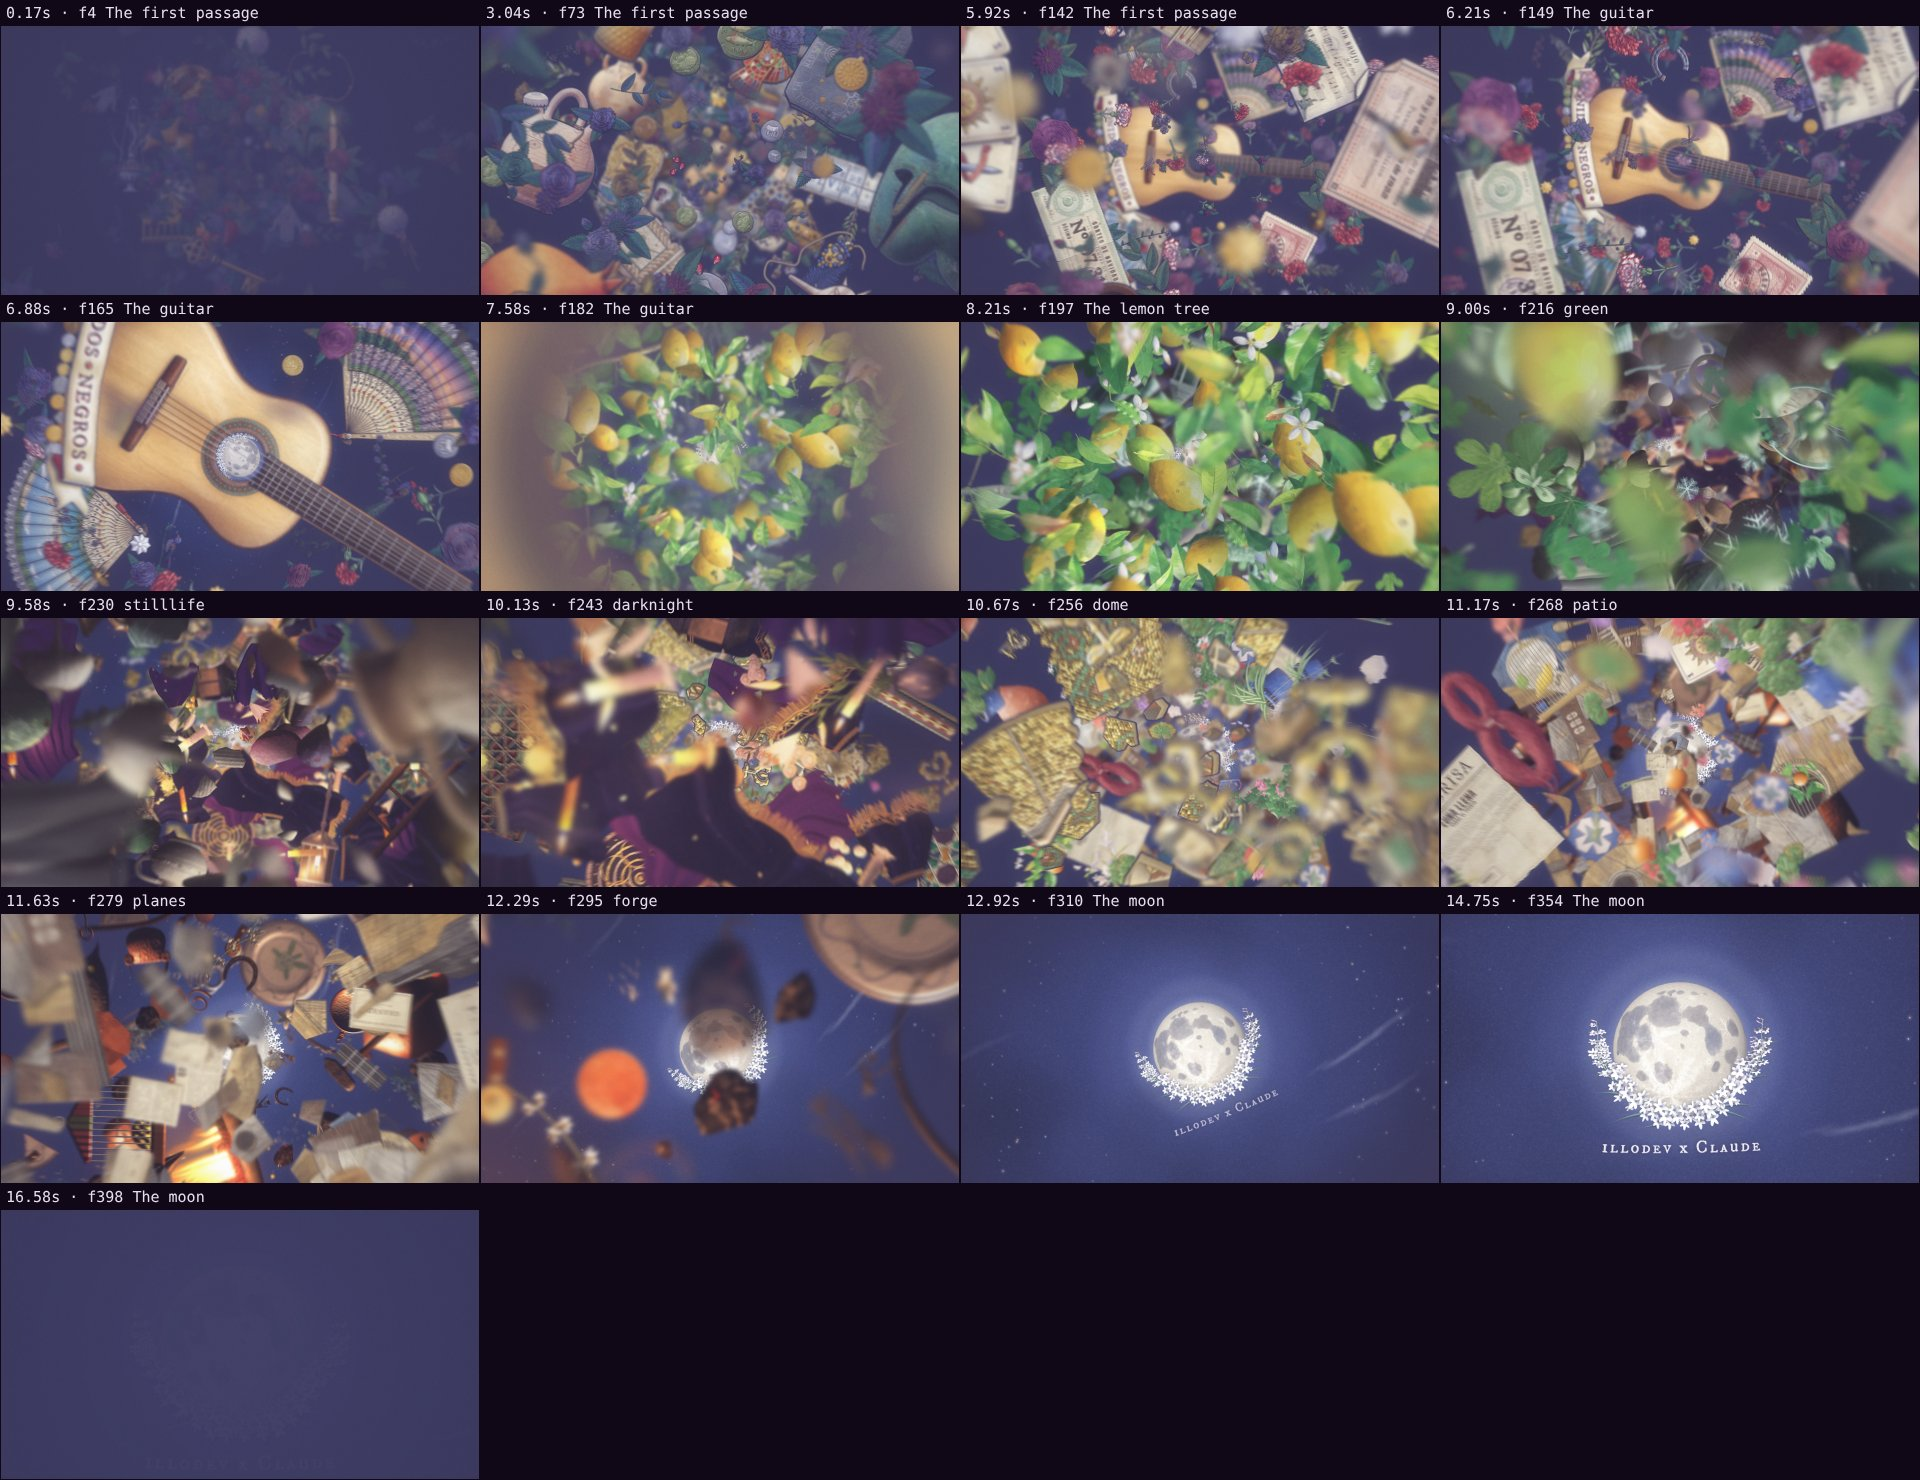
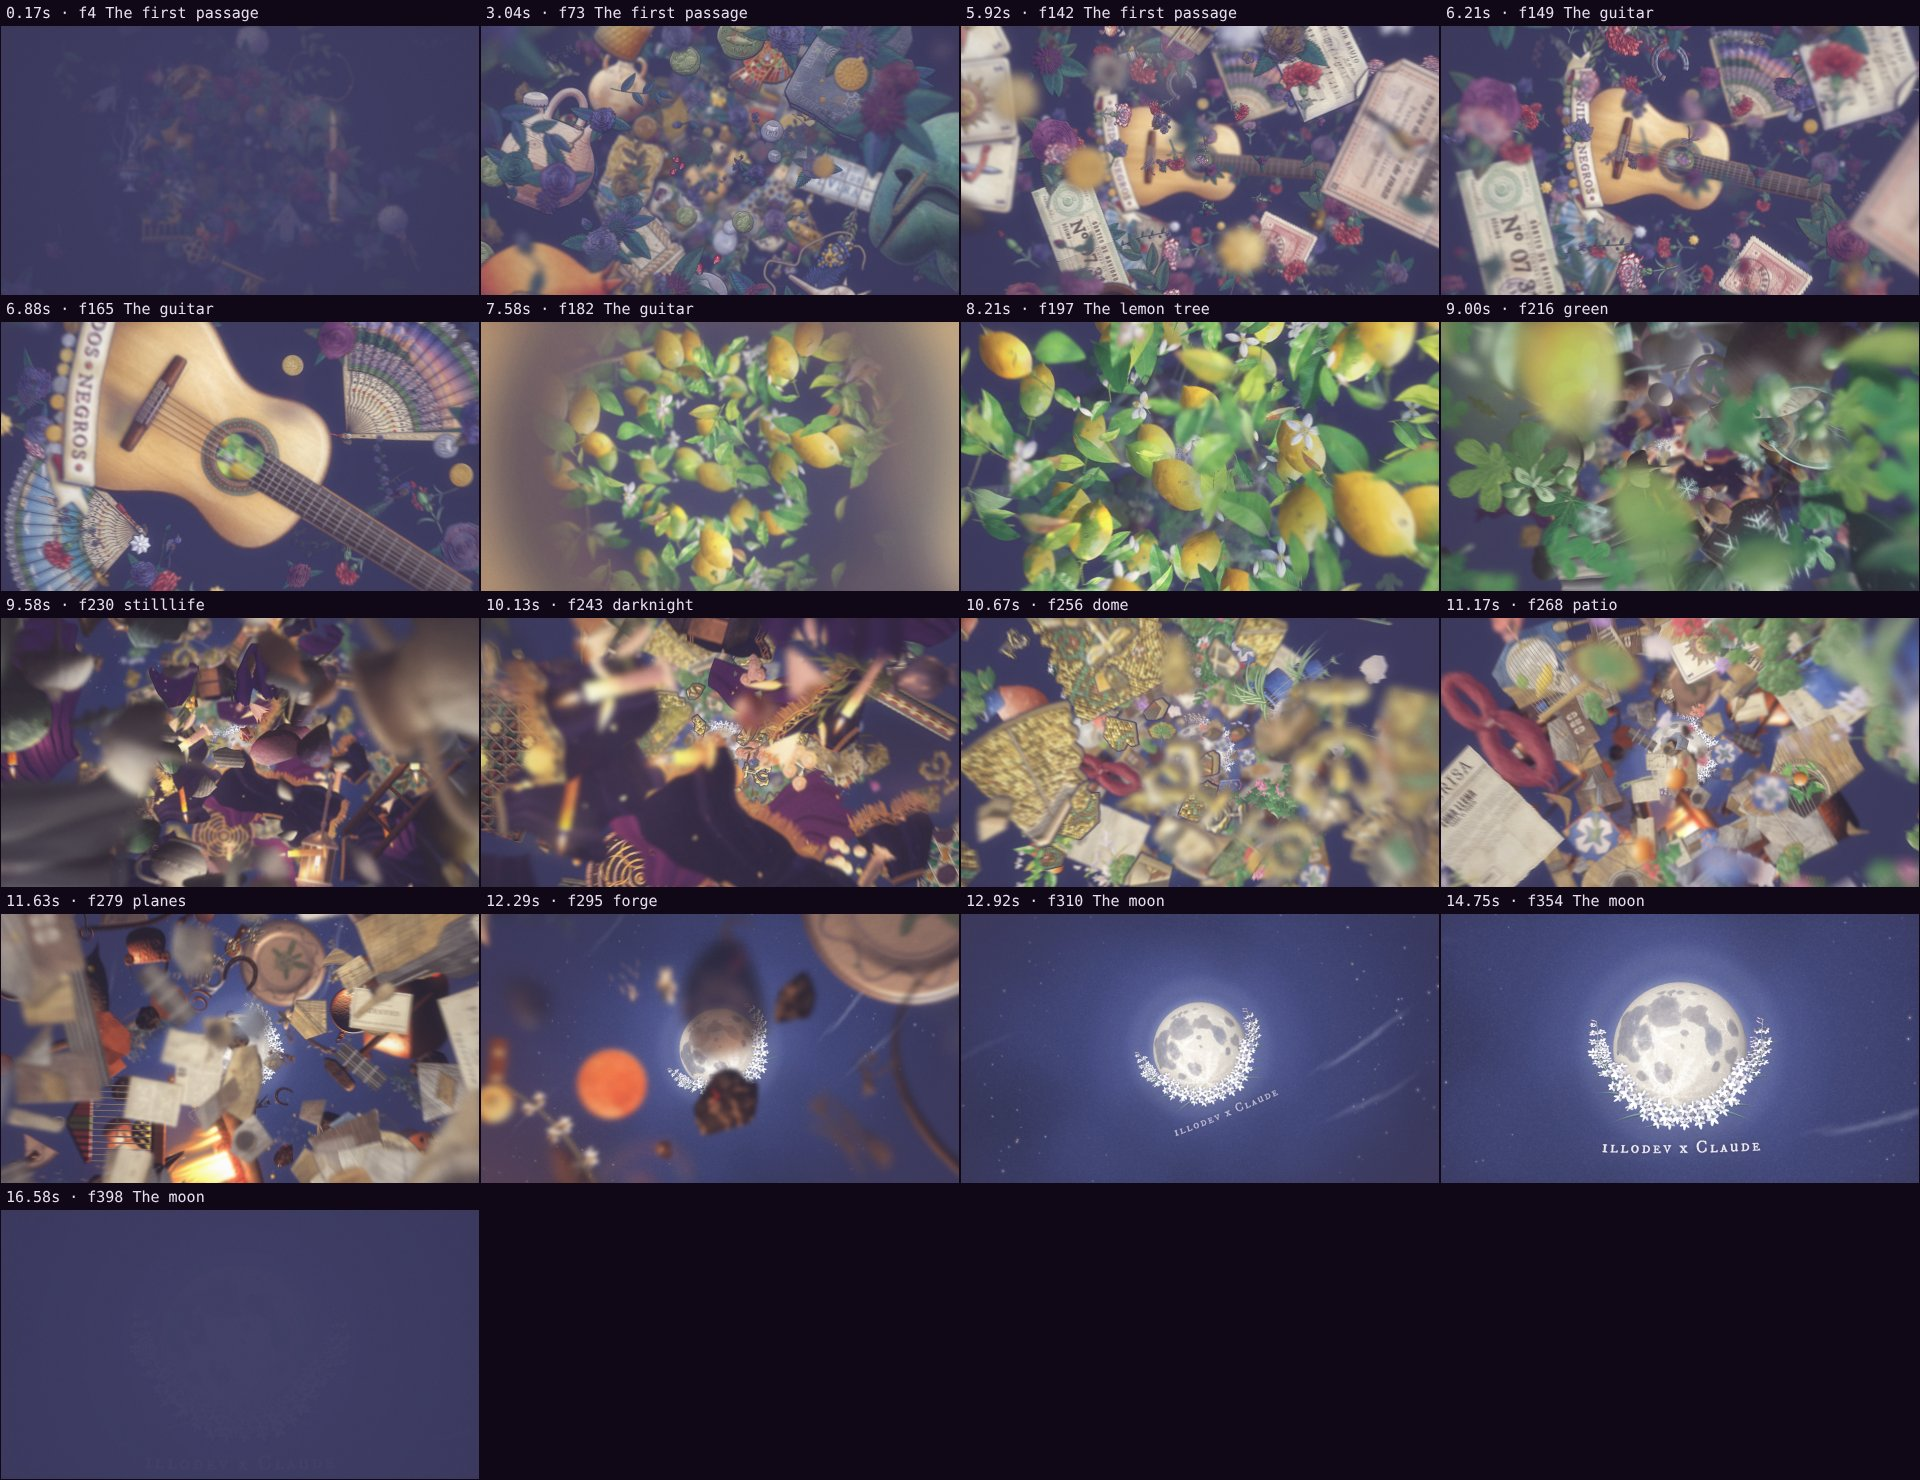
review(souvenir-test): round 8 · the contact sheet of the final film (lemons, not the moon, in the guitar's mouth)
Claude-Session: https://claude.ai/code/session_01UB8EofbK3vubyC7QzqfYZy

diff --git a/sandbox/2026-11-19-souvenir-test/review/auto.md b/sandbox/2026-11-19-souvenir-test/review/auto.md
@@ -12,7 +12,7 @@
 Energy per second (how much the image changes):
 
 ```
-▂▅▅▆▇▇▇██▇██▄▃▃▃▄
+▂▄▅▆▆▇▇██▇██▄▃▃▃▄
 0    5    10   15   
 ```
 
@@ -22,7 +22,7 @@ Large jumps outside cuts (can be normal in dense patterns; check whether they bo
 
 ## Speed
 
-Painting: 10637 ms/frame cold, 7099 ms warm → full render ≈ 2854 s at this size.
+Painting: 10124 ms/frame cold, 7013 ms warm → full render ≈ 2819 s at this size.
 
 > Slow: cache static elements with `Motion.sprite` and lower the texture density.
 
